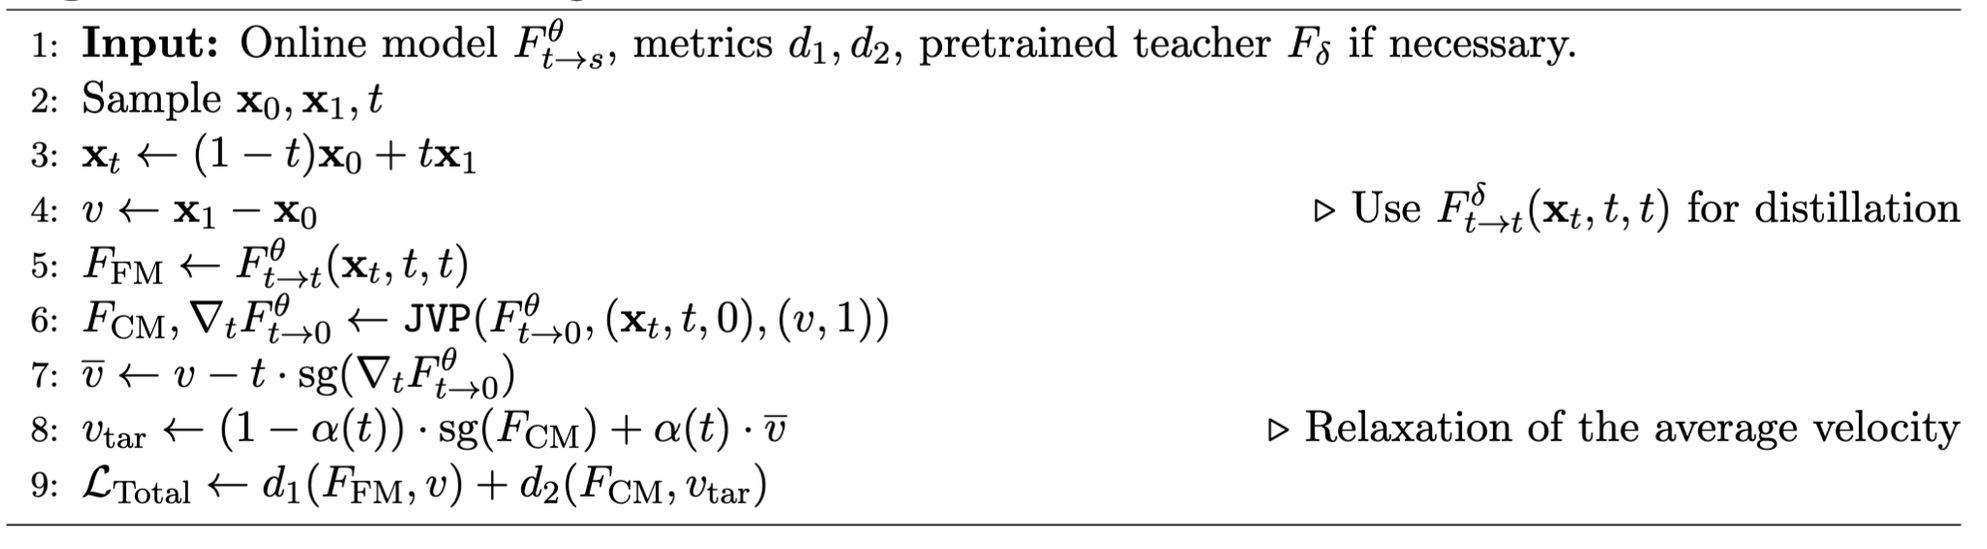
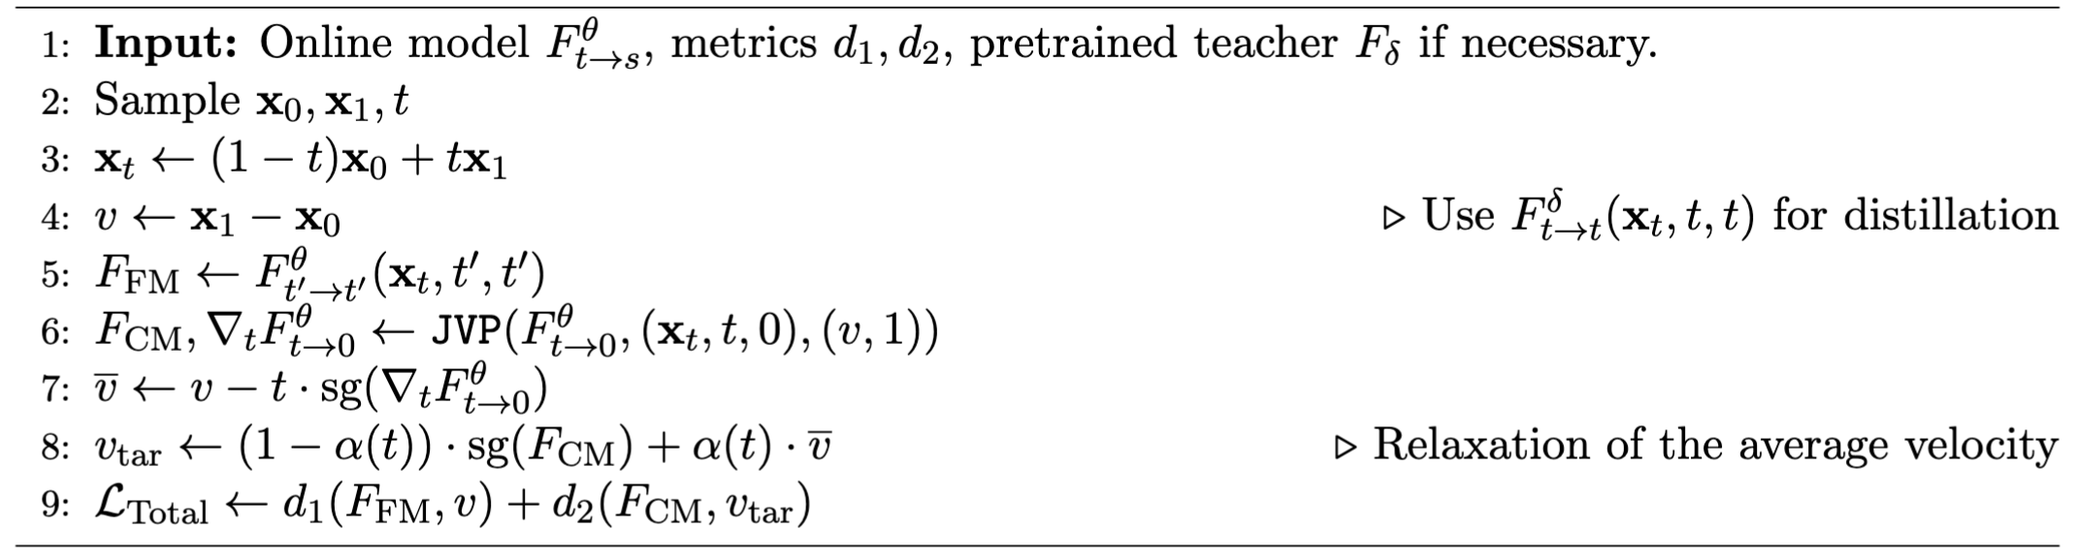
finish my diffusion distillation blog

diff --git a/_posts/2025-08-18-diff-distill.md b/_posts/2025-08-18-diff-distill.md
@@ -32,10 +32,9 @@ toc:
     - name: Align Your Flow
   - name: Connections
   - subsections:
-    - name: Shortcut Model
+    - name: Shortcut Models
     - name: ReFlow
     - name: Inductive Moment Matching
-    - name: Distribution Matching Distillation
   - name: Closing Thoughts
 
 # Below is an example of injecting additional post-specific styles.
@@ -59,9 +58,9 @@ toc:
 
 ## Introduction
 
-Diffusion and flow-based models<d-cite key="ho2020denoising"></d-cite> have taken over generative AI space, enabling unprecedented capabilities in videos, audios, and text generation. Nonetheless, there is a caveat - they are painfully **slow** during inference. Generating a single high-quality sample will require running through hundreds of denoising steps, which translate to high costs and long wait times. 
+Diffusion and flow-based models<d-cite key="ho2020denoising, lipman_flow_2023, albergo2023stochastic, liu2022flow"></d-cite> have taken over generative AI space, enabling unprecedented capabilities in videos, audios, and text generation. Nonetheless, there is a caveat - they are painfully **slow** during inference. Generating a single high-quality sample will require running through hundreds of denoising steps, which translate to high costs and long wait times. 
 
-At its core, diffusion models (equivalently, flow matching models) operate by iteratively refining noisy data into high-quality outputs through a series of denoising steps. Similar to divide-and-conquer algorithms <d-footnote>Common ones like Mergesort, locating the median and Fast Fourior Transform.</d-footnote> , diffusion models first *divide* the difficult denoising task into subtasks and *conquer* one of these at a time during training. To obtain a sample, we make a sequence of recursive predictions which means we need to *conquer* the entire task end-to-end. 
+At its core, diffusion models (equivalently, flow matching models) operate by iteratively refining noisy data into high-quality outputs through a series of denoising steps. Similar to divide-and-conquer algorithms <d-footnote>Common ones like Mergesort, locating the median and Fast Fourior Transform.</d-footnote>, diffusion models first *divide* the difficult denoising task into subtasks and *conquer* one of these at a time during training. To obtain a sample, we make a sequence of recursive predictions which means we need to *conquer* the entire task end-to-end. 
 
 This challenge has spurred research into acceleration strategies across multiple grandular levels, including hardware optimization, mixed precision training<d-cite key="micikevicius2017mixed"></d-cite>, [quantization](https://github.com/bitsandbytes-foundation/bitsandbytes), and parameter-efficient fine-tuning<d-cite key="hu2021lora"></d-cite>. In this blog, we focus on an orthogonal approach, **ODE distillation**, which minimize Number of Function Evaluations (NFEs) so that we can generate high-quality samples with as few denoising steps as possible.
 
@@ -92,7 +91,7 @@ $$\mathbf{x}_t = \alpha(t)\mathbf{x}_0 + \beta(t)\mathbf{x}_1$$ where $$\alpha(t
 
 
 
-We provide some popular instances <d-footnote>We ignore the diffusion models with SDE formulation like DDPM on purpose since we concentrate on ODE distillation in this blog.</d-footnote> of these schedules in the table below. 
+We provide some popular instances <d-footnote>We ignore the diffusion models with SDE formulation like DDPM<d-cite key="ho2020denoising"></d-cite> or ScoreSDE<d-cite key="song2020score"></d-cite> on purpose since we concentrate on ODE distillation in this blog.</d-footnote> of these schedules in the table below. 
 
 | Method | Probability Path $p_t$ | Vector Field $u(\mathbf{x}_t, t\vert\mathbf{x}_0)$ |
 |--------|---------------------------|------------------------------|
@@ -104,7 +103,7 @@ We provide some popular instances <d-footnote>We ignore the diffusion models wit
 
 The simplest form of conditional probability path is $$\mathbf{x}_t = (1-t)\mathbf{x}_0 + t\mathbf{x}_1$$ with the corresponding default conditional velocity field OT target $$v(\mathbf{x}_t, t \vert \mathbf{x}_0)=\mathbb{E}[\dot{\mathbf{x}}_t\vert \mathbf{x}_0]=\mathbf{x}_1- \mathbf{x}_0.$$
 
-Borrowed from this [slide](https://rectifiedflow.github.io/assets/slides/icml_07_distillation.pdf) at ICML2025, the objective of ODE distillation have been categorized into three cases, i.e., (a) forward loss, (b) backward loss and (c) tri-consistency loss. 
+Borrowed from this [slide](https://rectifiedflow.github.io/assets/slides/icml_07_distillation.pdf) at ICML2025, the objective of ODE distillation have been categorized into three cases, i.e., (a) **forward loss**, (b) **backward loss** and (c) **tri-consistency loss**. 
 
 !!! a video explaining these three losses
 
@@ -122,7 +121,7 @@ where $w(t)$ is a reweighting function.
 
 
 ## ODE Distillation methods
-Before introducing ODE distillation methods, it is imperative to define a general flow map $$f_{t\to s}(\mathbf{x}_t, t, s)$$<d-cite key="boffi2025build"></d-cite> where it maps any noisy input $$\mathbf{x}_t, t\in[0,1]$$ to any point $$\mathbf{x}_s, s\in[0,1]$$ on the ODE that describes the probability flow aformationed. This is a generalization of flow-based distillation and consistency models within a single unified framework. The flow map is well-defined only if its **boundary conditions** satisfy $$f_{t\to t}(\mathbf{x}_t, t, t) = \mathbf{x}_t$$ for all time steps. One popular way to meet the condition is to parameterize the model as $$ f_{t\to s}(\mathbf{x}_t, t, s)= c_{\text{skip}}(t, s)\mathbf{x}_t + c_{\text{out}}(t,s)F_{t\to s}(\mathbf{x}_t, t, s) $$ where $$c_{\text{skip}}(t, t) = 1$$ and $$c_{\text{out}}(t, t) = 0$$ for all $$t$$.
+Before introducing ODE distillation methods, it is imperative to define a general continuous-time flow map $$f_{t\to s}(\mathbf{x}_t, t, s)$$<d-cite key="boffi2025build"></d-cite> where it maps any noisy input $$\mathbf{x}_t, t\in[0,1]$$ to any point $$\mathbf{x}_s, s\in[0,1]$$ on the ODE that describes the probability flow aformationed. This is a generalization of flow-based distillation and consistency models within a single unified framework. The flow map is well-defined only if its **boundary conditions** satisfy $$f_{t\to t}(\mathbf{x}_t, t, t) = \mathbf{x}_t$$ for all time steps. One popular way to meet the condition is to parameterize the model as $$ f_{t\to s}(\mathbf{x}_t, t, s)= c_{\text{skip}}(t, s)\mathbf{x}_t + c_{\text{out}}(t,s)F_{t\to s}(\mathbf{x}_t, t, s) $$ where $$c_{\text{skip}}(t, t) = 1$$ and $$c_{\text{out}}(t, t) = 0$$ for all $$t$$.
 
 At its core, ODE distillation boils down to how to strategically construct the training objective of the flow map $$f_{t\to s}(\mathbf{x}_t, t, s)$$ so that it can be efficiently evaluated during sampling. In addition, we need orchestrate the schedule of $$(t,s)$$ pairs for better training dynamics.
 
@@ -130,10 +129,10 @@ At its core, ODE distillation boils down to how to strategically construct the t
 MeanFlow<d-cite key="geng2025mean"></d-cite> can be trained from scratch or distilled from a pretrained FM model. The conditional probability path is defined as the linear interpolation between noise and data $$\mathbf{x}_t = (1-t)\mathbf{x}_0 + t\mathbf{x}_1$$ with the corresponding default conditional velocity field OT target $$v(\mathbf{x}_t, t \vert \mathbf{x}_0)=\mathbf{x}_1- \mathbf{x}_0.$$ The main contribution consists of identifying and defining a **average velocity field** which coincides with our flow map as 
 
 $$
-F_{t\to s}(\mathbf{x}_t, t, s)=u(\mathbf{x}_t, t, s) \triangleq \frac{1}{t - s} \int_s^t v(\mathbf{x}_\tau, \tau) d\tau
+F_{t\to s}(\mathbf{x}_t, t, s)=u(\mathbf{x}_t, t, s) \triangleq \frac{1}{t - s} \int_s^t v(\mathbf{x}_\tau, \tau) d\tau=\dfrac{f_{t\to s}(\mathbf{x}_t, t, s)-f_{t\to t}(\mathbf{x}_t, t, t))}{s-t}
 $$
 
-where $$c_{\text{out}}(t,s)=t-s$$. This is great since it attributes actual physical meaning to our flow map.
+where $$c_{\text{out}}(t,s)=s-t$$. This is great since it attributes actual physical meaning to our flow map.
 
 Differentiating both sides w.r.t. $t$ and consider the assumption that $s$ is independent of $t$, we obtain the MeanFlow identity<d-cite key="geng2025mean"></d-cite>
 
@@ -157,7 +156,7 @@ where $$F_{t\to s}^{\text{tgt}}(\mathbf{x}_t, t, s\vert\mathbf{x}_0)=v - (t-s)(v
 <summary>Loss type</summary>
 Type (b) backward loss
 </details>
-In practice, the total derivative of $$F_{t\to s}(\mathbf{x}_t, t, s)$$ and the evaluation can be done in a single function call: `f, dfdt=jvp(f_theta, (xt, s, t), (v, 0, 1))`. Despite `jvp` operation only introduces one extra backward pass, it still incurs expensive and unstable training. SpiltMeanFlow<d-cite key="guo2025splitmeanflow"></d-cite> circumvents this issue by enforcing another consistency identity $$(t-s)F_{t\to s} = (t-r)F_{t\to r}+(r-s)F_{r\to s}$$ where $$s<r<t$$. This implies a discretized version of the MeanFlow objective which falls into loss type (3).
+In practice, the total derivative of $$F_{t\to s}(\mathbf{x}_t, t, s)$$ and the evaluation can be done in a single function call: `f, dfdt=jvp(f_theta, (xt, s, t), (v, 0, 1))`. Despite `jvp` operation only introduces one extra backward pass, it still incurs instability and slos down training. Moreover, the `jvp` operation is currently incompatible with the latest attention architecture. SpiltMeanFlow<d-cite key="guo2025splitmeanflow"></d-cite> circumvents this issue by enforcing another consistency identity $$(t-s)F_{t\to s} = (t-r)F_{t\to r}+(r-s)F_{r\to s}$$ where $$s<r<t$$. This implies a discretized version of the MeanFlow objective which falls into loss type (c).
 
 
 <span style="color: orange; font-weight: bold;">Sampling</span>:
@@ -184,7 +183,7 @@ $$
 \mathbb{E}_{\mathbf{x}_t, t} \left[ w(t) d\left(f_{t \to 0}^\theta(\mathbf{x}_t, t,0), f_{t \to 0}^{\theta^-}(\mathbf{x}_{t-\Delta t}, t - \Delta t,0)\right) \right],
 $$
 
-where $$\theta^-$$ denotes $$\text{stopgrad}(\theta)$$, $$w(t)$$ is a weighting function, $$\Delta t > 0$$ is the distance between adjacent time steps, and $d(\cdot, \cdot)$ is a distance metric.<d-footnote>Common choices include $\ell_2$ loss $d(\mathbf{x}, \mathbf{y}) = ||\mathbf{x} - \mathbf{y}||_2^2$, pseudo-Huber loss $d(\mathbf{x}, \mathbf{y}) = \sqrt{||\mathbf{x} - \mathbf{y}||_2^2 + c^2} - c$ and LPIPS loss. </d-footnote>
+where $$\theta^-$$ denotes $$\text{stopgrad}(\theta)$$, $$w(t)$$ is a weighting function, $$\Delta t > 0$$ is the distance between adjacent time steps, and $d(\cdot, \cdot)$ is a distance metric.<d-footnote>Common choices include $\ell_2$ loss $d(\mathbf{x}, \mathbf{y}) = ||\mathbf{x} - \mathbf{y}||_2^2$, pseudo-Huber loss $d(\mathbf{x}, \mathbf{y}) = \sqrt{||\mathbf{x} - \mathbf{y}||_2^2 + c^2} - c$ and Learned Perceptual Image Patch Similarity (LPIPS) loss. </d-footnote>
 
 - <span style="color: orange; font-weight: bold;">Sampling</span>: 
 It is natural to conduct one-step sampling with CM
@@ -202,7 +201,7 @@ When using $$d(\mathbf{x}, \mathbf{y}) = ||\mathbf{x} - \mathbf{y}||_2^2$$ and t
 
 $$
 \require{physics}
-\nabla_\theta \mathbb{E}_{\mathbf{x}_t, t} \left[ w(t) (f^\theta)^{\top}_{t\to 0}(\mathbf{x}_t, t,0) \dv{f^{\theta^-}_{t\to 0}(\mathbf{x}_t, t,0)}{t} \right] 
+\nabla_\theta \mathbb{E}_{\mathbf{x}_t, t} \left[ w(t) (f^\theta_{t\to 0})^{\top}(\mathbf{x}_t, t,0) \dv{f^{\theta^-}_{t\to 0}(\mathbf{x}_t, t,0)}{t} \right] 
 $$ 
 
 where $$ \require{physics} \dv{f^{\theta^-}_{t\to 0}(\mathbf{x}_t, t,0)}{t} = \nabla_{\mathbf{x}_t} f^{\theta^-}_{t\to 0}(\mathbf{x}_t, t,0) \dv{\mathbf{x}_t}{t} + \partial_t f^{\theta^-}_{t\to 0}(\mathbf{x}_t, t,0)$$ is the tangent of $f^{\theta^-}_{t\to 0}$ at $(\mathbf{x}_t, t)$ along the trajectory of the ODE defined (1). Consistency Trajectory Models<d-cite key="kim2023consistency"></d-cite> extend this objective so that the forward loss (type (a)) becomes globally optimized. In this context, their intuition is that $$f^\theta_{t \to s}(\mathbf{x}_t, t, s)\approx f^\theta_{r \to s}(\texttt{Solver}_{t\to r}(\mathbf{x}_t, t, r), r, s).$$ The composition order on the right-hand side depends on the assumption of the solver of the teacher model.
@@ -232,10 +231,10 @@ $$\require{physics}
 F^\theta_{t\to 0}(\mathbf{x}_t, t, 0)=v(\mathbf{x}_t, t)-t\dv{F^\theta_{t\to 0}(\mathbf{x}_t, t, 0)}{t}.
 $$
 
-Notice this is equivalent to [MeanFlow](#meanflow) where $$s=0$$. This indicates CM objective directly forces the network $F^\theta_{t\to 0}(\mathbf{x}_t, t, 0)$ to learn the properties of an average velocity field heading towards the data distribution, thus enabling the 1-step generation shortcut.
+Notice this is equivalent to [MeanFlow](#meanflow) where $$s=0$$. This indicates CM objective directly forces the network $$F^\theta_{t\to 0}(\mathbf{x}_t, t, 0)$$ to learn the properties of an average velocity field heading towards the data distribution, thus enabling the 1-step generation shortcut.
 
 
-<span style="color: blue; font-weight: bold;">Training</span>: FACM training alogrithm equipped with our flow map notation. Notice that $$d_1, d_2$$ are $\ell_2$ with cosine loss and norm $\ell_2$ loss respectively, plus reweighting. Interestingly, they separate the training of FM and CM on disentangled time intervals. When training with CM target, we let $$s=0, t\in[0,1]$$. On the other hand, when training with FM target, we set $$t'=2-t, t'\in[1,2]$$.
+<span style="color: blue; font-weight: bold;">Training</span>: FACM training alogrithm equipped with our flow map notation. Notice that $$d_1, d_2$$ are $\ell_2$ with cosine loss and norm $\ell_2$ loss respectively, plus reweighting. Interestingly, they separate the training of FM and CM on disentangled time intervals. When training with CM target, we let $$s=0, t\in[0,1]$$. On the other hand, we set $$t'=2-t, t'\in[1,2]$$ when training with FM anchors.
 <div class="row mt-3">
     <div class="col-sm mt-3 mt-md-0">
         {% include figure.liquid loading="eager" path="blog/2025/diff-distill/facm_training.png" class="img-fluid rounded z-depth-1" %}
@@ -248,61 +247,109 @@ Notice this is equivalent to [MeanFlow](#meanflow) where $$s=0$$. This indicates
 Type (b) backward loss
 </details>
 
-
-!!! starting from here
 ### Align Your Flow
 
-Our notation is a small modification of this paper, where we indicate the direction of the distillation.
-<span style="color: blue; font-weight: bold;">Training</span>
+Our notation incorporates a small modification of the flow map introduced by Align Your Flow<d-cite key="sabour2025align"></d-cite>, where we indicate the direction of the distillation. Hence, we say that Align Your Flow (AYF) the continuous-time flow map $$f^{\text{AYF}}(\mathbf{x}_t, t, s)=f_{t\to s}(\mathbf{x}_t, t, s).$$ Specifically, AYF selects a tigher set of boundary conditions $$c_{\text{skip}}(t,s)=1$$ and $$c_{\text{out}}(t,s)=s-t$$.
 
-1. AYF-Eulerian Map Distillation
-Let $f_\theta(\mathbf{x}_t, t, s)$ be the flow map. Consider the loss function defined between two adjacent starting timesteps $t$ and $t' = t + \epsilon(s - t)$ for a small $\epsilon > 0$,
-
-$$\mathbb{E}_{\mathbf{x}_t, t, s}\left[w(t, s)\|f_\theta(\mathbf{x}_t, t, s) - f_{\theta^-}(\mathbf{x}_{t'}, t', s)\|_2^2\right],$$ 
- where $\mathbf{x}_{t'}$ is obtained by applying a 1-step Euler solver to the PF-ODE from $t$ to $t'$. In the limit as $\epsilon \to 0$, the gradient of this objective with respect to $\theta$ converges to:
- $$ \nabla_\theta \mathbb{E}_{\mathbf{x}_t, t, s}\left[w'(t, s)\text{sign}(t - s) \cdot \mathbf{f}_\theta^\top(\mathbf{x}_t, t, s) \cdot \frac{\text{d}f_{\theta^-}(\mathbf{x}_t, t, s)}{\text{d}t}\right],$$
-where $w'(t, s) = w(t, s) \times |t - s|$.
-
-
-2.  AYF-Lagrangian Map Distillation
-Let $f_\theta(\mathbf{x}_t, t, s)$ be the flow map. Consider the loss function defined between two adjacent ending timesteps $s$ and $s' = s + \epsilon(t - s)$ for a small $\epsilon > 0$,}$$\mathbb{E}_{\mathbf{x}_t, t, s}\left[w(t, s)\|f_\theta(\mathbf{x}_t, t, s) - ODE_{s' \to s}[f_{\theta^-}(\mathbf{x}_t, t, s')]\|_2^2\right],$$ where $ODE_{t \to s}(\mathbf{x})$ refers to running a 1-step Euler solver on the PF-ODE starting from $\mathbf{x}$ at timestep $t$ to timestep $s$. In the limit as $\epsilon \to 0$, the gradient of this objective with respect to $\theta$ converges to: $$\nabla_\theta \mathbb{E}_{\mathbf{x}_t, t, s}\left[w'(t, s)\text{sign}(s - t) \cdot \mathbf{f}_\theta^\top(\mathbf{x}_t, t, s) \cdot \left(\frac{\text{d}f_{\theta^-}(\mathbf{x}_t, t, s)}{\text{d}s} - \mathbf{v}_\phi(f_{\theta^-}(\mathbf{x}_t, t, s), s)\right)\right],$$where $w'(t, s) = w(t, s) \times |t - s|$.
-
-
-**Remarks:**
-1. In AYF-EMD: the standard flow matching loss appears if $s\to t$
-2. In AYF-EMD: this reduces to continuous CM when $s=0$
-3. The gradient of MeanFlow objective matches the AYF-EMD objective using an Euler parametrization up to a constant
-
-$$\mathcal{L}_{\text{MeanFlow}}(\theta) = \mathbb{E}_{\mathbf{x}_t, t, s}\left[\left\|\mathbf{F}_\theta(\mathbf{x}_t, t, s) - \left(\frac{\text{d}\mathbf{x}_t}{\text{d}t} - (t - s)\frac{\text{d}\mathbf{F}_{\theta^-}(\mathbf{x}_t, t, s)}{\text{d}t}\right)\right\|_2^2\right].$$
-4. AYF-EMD objective and EMD loss in Flow Maps (no SG, and let $\epsilon\to 0$)
-$$
-\nabla_\theta \mathbb{E}_{\mathbf{x}_t, t, s}\left[w(t, s)\left\|\partial_t f_\theta(\mathbf{x}_t, t, s) + \nabla_{\mathbf{x}} f_\theta(\mathbf{x}_t, t, s) \cdot \frac{\text{d}\mathbf{x}_t}{\text{d}t}\right\|_2^2\right] = \nabla_\theta \mathbb{E}_{\mathbf{x}_t, t, s}\left[w(t, s)\left\|\frac{\text{d}f_\theta(\mathbf{x}_t, t, s)}{\text{d}t}\right\|_2^2\right].
-$$
-5. AYF-LMD objective and the LMD loss (let $\epsilon\to 0$)
+<span style="color: blue; font-weight: bold;">Training</span>:
+The first variant of the objective, called AYF-**Eulerian Map Distillation**, is compatible with both distillation and training from scratch. 
 
 $$
-\nabla_\theta \mathbb{E}_{\mathbf{x}_t, t, s}\left[w(t, s)\left\|\partial_s f_\theta(\mathbf{x}_t, t, s) - \mathbf{v}_\phi(f_\theta(\mathbf{x}_t, t, s), s)\right\|_2^2\right]
+\nabla_\theta \mathbb{E}_{\mathbf{x}_t, t, s}\left[w(t, s)\text{sign}(t - s) \cdot (f^\theta_{t \to s})^\top(\mathbf{x}_t, t, s) \cdot \frac{\text{d}f^{\theta^-}_{t\to s}(\mathbf{x}_t, t, s)}{\text{d}t}\right]
 $$
+
+It is intriguing that this objective reduces to the [continuous CM](#consistency-models) objective when $$s=0$$, while transforming to original FM objective when $$s\to t$$. In addition, CTMs<d-cite key="kim2023consistency"></d-cite> uses a discrete consistency loss with a fixed discretized time schedule comparing to AYF-EMD objective.
+Regarding the second variant, named AYF-**Lagrangian Map Distillation**, it is only applicable to distillation from a pretrained flow model $$F^\delta_{t \to t}(\mathbf{x}_t,t,t)$$. 
+
+$$
+\nabla_\theta \mathbb{E}_{\mathbf{x}_t, t, s}\left[w(t, s)\text{sign}(s - t) \cdot (f^\theta_{t \to s})^\top \cdot \left(\frac{\text{d}f^{\theta^-}_{t\to s}}{\text{d}s} - F^\delta_{s \to s}((f_{\theta^-}(\mathbf{x}_t, t, s), s,s)\right)\right].
+$$
+
+<span style="color: orange; font-weight: bold;">Sampling</span>: Same as CM. A combination of $$\gamma$$-sampling and classifier-free guidance.
+
+The formulation of these objectives is majorly built on the Flow Map Matching<d-cite key="boffi2025build"></d-cite>. Similar to the trick in training [Meanflow](#meanflow) and [CMs](#consistency-models), they add a `stopgrad` operator to the loss to make the objective practical. In their appendix, they provide a detailed proof of why these objectives are equivalent to the objectives in Flow Map Matching<d-cite key="boffi2025build"></d-cite>. 
+
+<details>
+<summary>Loss type</summary>
+Type (b) backward loss for AYF-EMD, type (a) forward loss for AYF-LMD.
+</details>
 
 ## Connections
+Now it is time to connect the dots with some previous existing methods. Let's frame their objectives in our flow map notation and identify their loss types.
 
 ### Shortcut Models
-They propose an objective combining flow matching and a self-consistency loss
+<div class="row mt-3">
+    <div class="col-sm mt-3 mt-md-0">
+        {% include figure.liquid loading="eager" path="blog/2025/diff-distill/shortcut_model.png" class="img-fluid rounded z-depth-1" %}
+    </div>
+</div>
+<div class="caption">
+The diagram of Shortcut Models<d-cite key="frans2024one"></d-cite>
+</div>
+In essence, Shortcut models<d-cite key="frans2024one"></d-cite> augment the standard flow matching objective with a self-consistency regularization term. This additional loss component ensures that the learned vector field satisfies a midpoint consistency property: the result of a single large integration step should match the composition of two smaller steps traversing the same portion of the ODE trajectory. 
+
+<span style="color: blue; font-weight: bold;">Training</span>: In the training objective, we neglect the input arguments and focus on the core transition between time steps. Again, we elaborate it with our flow map notation.
+
 $$
-\mathcal{L}(\theta) = \mathbb{E}_{\mathbf{x}_t, t, s}\left[\left\|\mathbf{F}_\theta(\mathbf{x}_t, t, t) - \frac{\text{d}\mathbf{x}_t}{\text{d}t}\right\|_2^2 + \left\|\mathbf{f}_\theta(\mathbf{x}_t, t, s) - \mathbf{f}_{\theta^-}\left(\mathbf{f}_{\theta^-}\left(\mathbf{x}_t, t, \frac{t + s}{2}\right), \frac{t + s}{2}, s\right)\right\|_2^2\right]
+\mathbb{E}_{\mathbf{x}_t, t, s}\left[\left\|F^\theta_{t\to t} - \dfrac{\text{d}\mathbf{x}_t}{\text{d}t}\right\|_2^2 + \left\|f^\theta_{t\to s} - f^{\theta^-}_{\frac{t+s}{2}\to s}\circ f^{\theta^-}_{t \to \frac{t+s}{2}}\right\|_2^2\right]
 $$
+
+where we adopt the same flow map conditions based on [AYF](#align-your-flow).
+
+
+<span style="color: orange; font-weight: bold;">Sampling</span>: Same with MeanFlow yet with specific shortcut lengths.
+<details>
+<summary>Loss type</summary>
+Type (c) tri-consistency loss
+</details>
+
+### ReFlow
+<div class="row mt-3">
+    <div class="col-sm mt-3 mt-md-0">
+        {% include figure.liquid loading="eager" path="blog/2025/diff-distill/rectifiedflow.png" class="img-fluid rounded z-depth-1" %}
+    </div>
+</div>
+<div class="caption">
+The diagram of rectified flow and ReFlow process<d-cite key="liu2022flow"></d-cite>
+</div>
+Unlike most ODE distillation methods that learn to jump from $$t\to s$$ according to our defined flow map $$f_{t\to s}(\mathbf{x}_t, t, s)$$, ReFlow<d-cite key="liu2022flow"></d-cite> takes a different approach by establishing new noise-data couplings so that the new model will generate straighter trajectories.<d-footnote>In the rectified flow paper<d-cite key="liu2022flow"></d-cite>, the straightness of any continuously differentiable process $$Z=\{Z_t\}$$ can be measured by $$S(Z)=\int_0^1\mathbb{E}\|(Z_1-Z_0)-\dot{Z}_t\|^2 dt$$ where $S(Z)=0$ implies the trajectories are perfectly straight.</d-footnote> In this case, this allows the ODE to be solved with fewer steps and larger step sizes. To some extent, this resembles the preconditioning from OT-CFM<d-cite key="tong2023improving"></d-cite> where they intentionally sample noise and data pairs jointly from an optimal transport map $$\pi(\mathbf{x}_0, \mathbf{x}_1)$$ instead of independent marginals.
+
+<span style="color: blue; font-weight: bold;">Training</span>: Pair synthesized data from the pretrained model with the noise. Use this new coupling to train a student model with the standard FM objective.
+
+<span style="color: orange; font-weight: bold;">Sampling</span>: Same as FMs.
 
 ### Inductive Moment Matching 
+<div class="row mt-3">
+    <div class="col-sm mt-3 mt-md-0">
+        {% include figure.liquid loading="eager" path="blog/2025/diff-distill/IMM.png" class="img-fluid rounded z-depth-1" %}
+    </div>
+</div>
+<div class="caption">
+The diagram of IMM<d-cite key="zhou2025inductive"></d-cite>
+</div>
+This recent method<d-cite key="zhou2025inductive"></d-cite> trains our flow map from scratch via matching the distributions of $$f^{\theta}_{t\to s}(\mathbf{x}_t, t, s)$$ and $$f^{\theta}_{r\to s}(\mathbf{x}_r, r, s)$$ where $$s<r<t$$. They adopt an Maximum Mean Discrepancy (MMD) loss to match the distributions.
 
-According to the notation defined in **AYF - Flow maps**, it uses an MMD loss to match distributions of $\mathbf{f}_\theta(\mathbf{x}_t, t, s)$ and $\mathbf{f}_{\theta^-}(\mathbf{x}_r,r,s)$ where $s< r< t$ .
+<span style="color: blue; font-weight: bold;">Training</span>: In our flow map notation, the training objective becomes
 
+$$
+\mathbb{E}_{\mathbf{x}_t, t, s} \left[ w(t,s) \text{MMD}^2\left(f_{t \to s}(\mathbf{x}_t, t,s), f_{r \to s}(\mathbf{x}_{r}, r,s)\right) \right]
+$$
 
-### Distribution Matching Distillation
+where $$w(t,s)$$ is a weighting function.
+
+<span style="color: orange; font-weight: bold;">Sampling</span>: Same spirit as [AYF](#align-your-flow).
 
 
 ## Closing Thoughts
-We have done flow matching ODE distillation on human motion trajectory<d-cite key="fu2025moflowonestep"></d-cite>. Compared to more common approaches such as adversarial distillation derived from GANs or Maximum Mean Discrepancy as used in [IMM](#inductive-moment-matching), IMLE is a relatively niche method that aligns two distributions directly from their samples.
+
+The concept of a flow map offers a capable and unifying notation for summarizing the diverse landscape of diffusion distillation methods. Beyond these ODE distillation methods, an intriguing family of approaches pursues a more direct goal: training a one-step generator from the ground up by directly matching the data distribution from the teacher model.
+
+The core question is: how can we best leverage a pre-trained teacher model to train a student that approximates the data distribution $$p_{\text{data}}$$ in a single shot? With access to the teacher's flow, several compelling strategies emerge. It becomes possible to directly match the velocity fields, minimize the KL divergence between the student and teacher output distributions<d-cite key="yin2024improved"></d-cite>, or align their respective score functions<d-cite key="wang2025uni"></d-cite>.
+
+This leads to distinct techniques in practice. For example, adversarial distillation<d-cite key="yin2024improved, sabour2025align"></d-cite> employs a min-max objective to align the two distributions, while other methods like [IMM](#inductive-moment-matching) rely on statistical divergences like the Maximum Mean Discrepancy (MMD).
+
+In our own work on human motion prediction<d-cite key="fu2025moflowonestep"></d-cite>, we explored this direction by using Implicit Maximum Likelihood Estimation (IMLE). IMLE is a potent, if less common, technique that aligns distributions based purely on their samples, offering a direct and elegant way to distill the teacher's knowledge without requiring an explicit density function or a discriminator.
+
+Diffusion distillation is a dynamic field brimming with potential. The journey from a hundred steps to a single step is not just a technical challenge but a gateway to real-time, efficient generative AI applications.
 
 
-
-Table incorporates the pros and cons in all dimensions for every methods
